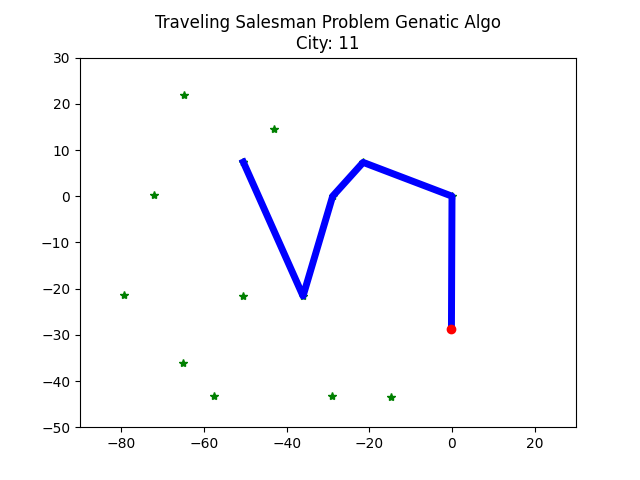
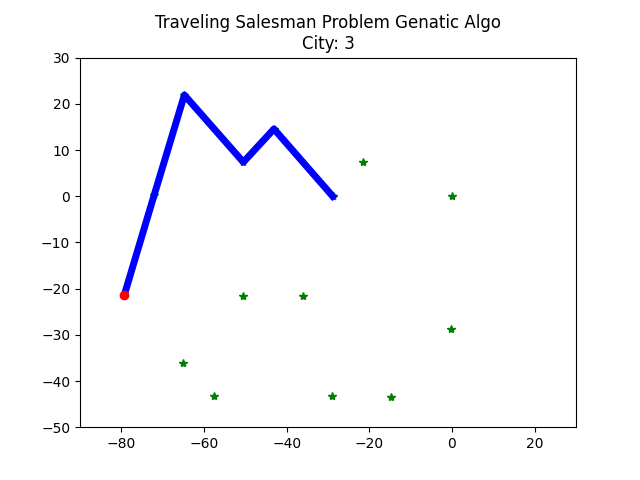
final touch

Changed region(s): [[0.3438, 0.25, 0.7188, 0.7188], [0.1875, 0.1875, 0.3438, 0.625], [0.4688, 0.0625, 0.5625, 0.125]]

diff --git a/TSP_Genatic.py b/TSP_Genatic.py
@@ -117,13 +117,13 @@ def seletion_and_crossover(prob, pob, n):
     candidates_num = 10
     new_pob = []
     while len(new_pob) < n:
-        # # random wheel selection
-        # parent1 = random_selection(pob)
-        # parent2 = random_selection(pob)
+        # random  selection
+        parent1 = random_selection(pob)
+        parent2 = random_selection(pob)
         
-        # tournment selection
-        parent1 = tournment_selection(pob, candidates_num)
-        parent2 = tournment_selection(pob, candidates_num)
+        # # tournment selection
+        # parent1 = tournment_selection(pob, candidates_num)
+        # parent2 = tournment_selection(pob, candidates_num)
         
         # # roulette wheel selection
         # parent1 = roulette_wheel_selection(pob)
@@ -179,7 +179,7 @@ def plot_map(data, chromosome):
 df = pd.read_excel("15-Points.xlsx")
 city_obj = [City(num,x,y) for num,x,y in zip(df['City'], df['x'], df['y'])]
 n = len(city_obj)
-pob_size = 200
+pob_size = 100
 itr_num=100
 elite_ratio =0.05
 crossover_ratio =.8

diff --git a/Particle Swarm Optimization for Linear Regression.py b/Particle Swarm Optimization for Linear Regression.py
@@ -27,8 +27,11 @@ def linear_cost(position):
     cost = (np.linalg.norm(error_vector) ** 2) / (len(target_label)*2)
     return cost
 #problem Defineiton 
-features = np.linspace(-5,5,1000).reshape(-1,1)
-target_label = -2 * features + 3 + np.random.rand(*features.shape)
+np.random.seed(1)
+
+
+features =np.random.rand(50, 1)
+target_label = 2 + 3 * features + np.random.rand(50, 1)
 #y_pred = particle.pos[0] + x * particle.pos[1]
 cost = lambda x : (x[0] - 2) ** 2 + (x[1] - 4)**2
 
